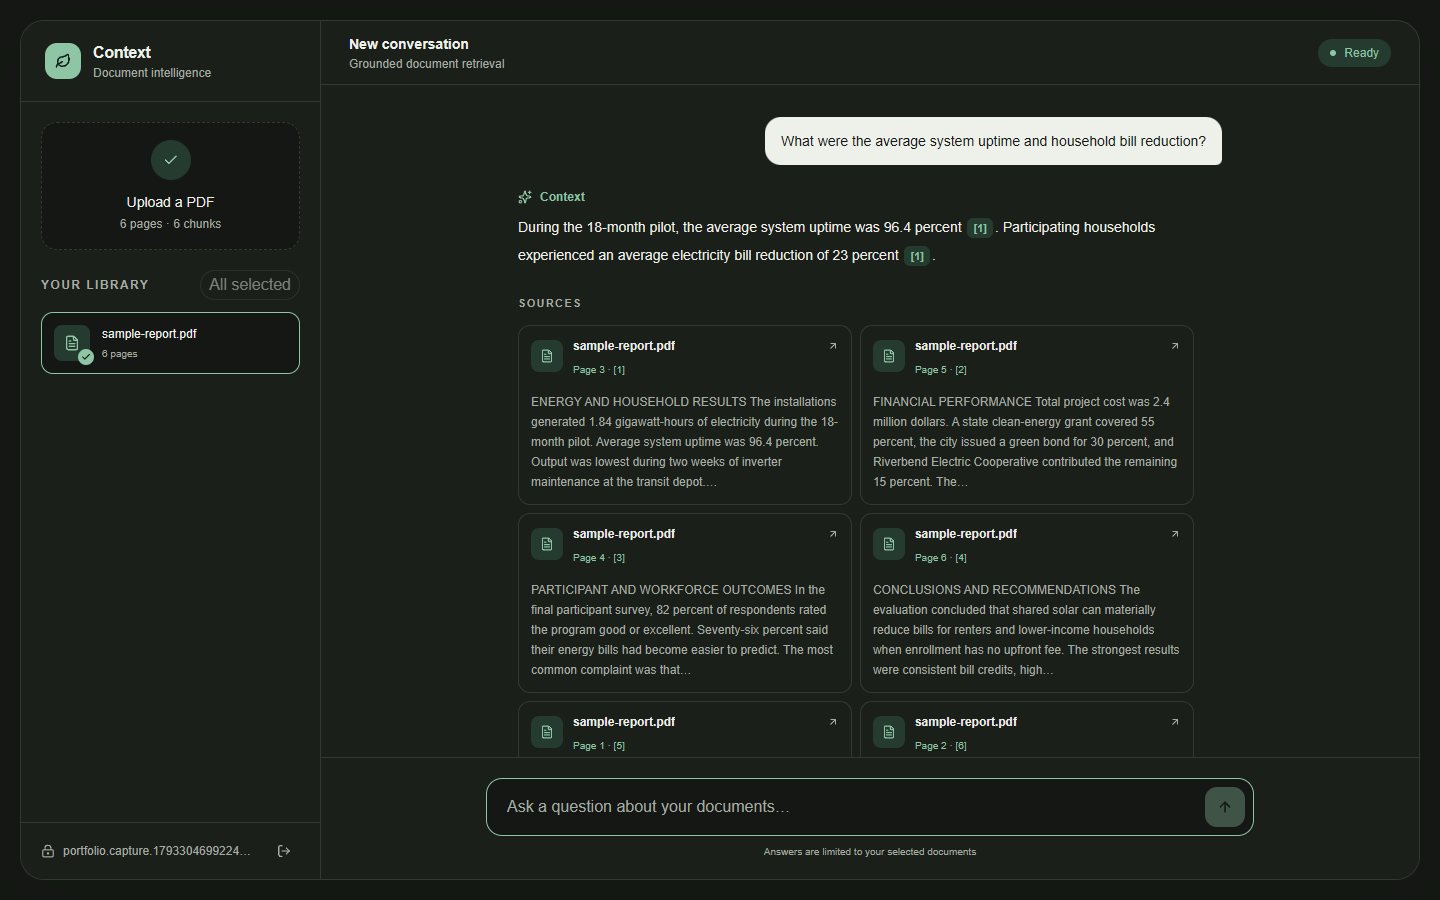
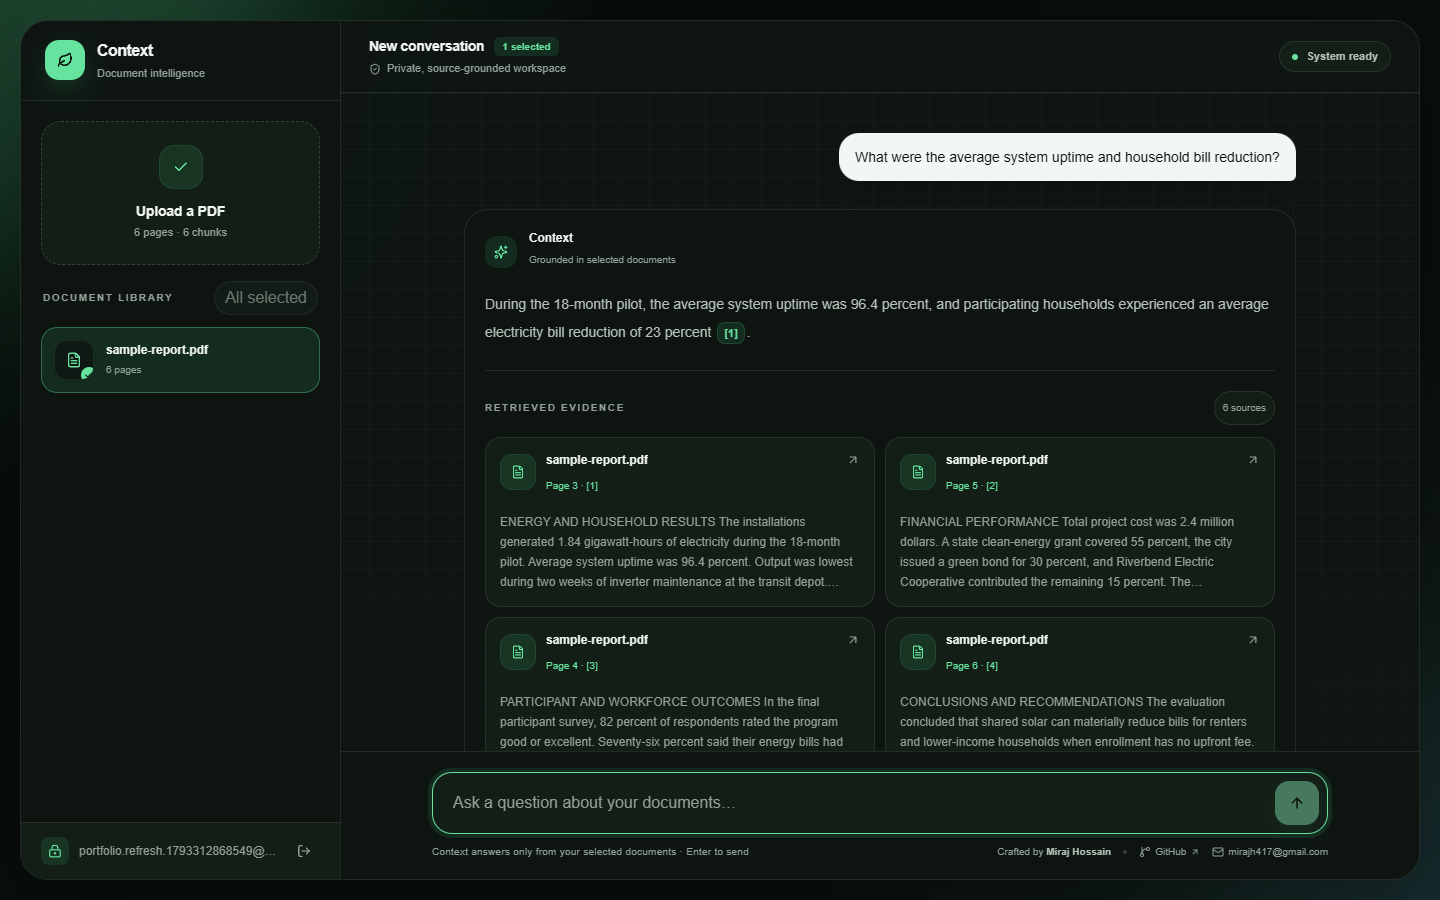
docs: finalize project showcase

diff --git a/README.md b/README.md
@@ -2,8 +2,9 @@
 
 Context is a production-oriented Retrieval-Augmented Generation application for asking questions about private PDF documents. It extracts and embeds page-aware chunks, retrieves relevant evidence with pgvector, streams answers from Gemini, and links every supported claim to its source page.
 
-> **Live demo:** `https://your-project.vercel.app`
-> Replace this placeholder after the first production deployment.
+> **Live application:** [rag-chat-swart.vercel.app](https://rag-chat-swart.vercel.app)
+>
+> Upload a text-based PDF, ask a document-specific question, and inspect the page-level evidence behind the answer.
 
 ## Portfolio preview
 
@@ -15,6 +16,7 @@ Context is a production-oriented Retrieval-Augmented Generation application for 
 
 ## Highlights
 
+- Modern, responsive AI workspace with dark/light themes, accessible motion, and polished interaction states
 - Passwordless Supabase authentication with protected routes and cookie-based SSR sessions
 - Private PDF ingestion without writing uploads to the server filesystem
 - Page-aware chunking at approximately 600 tokens with 80-token overlap
@@ -78,6 +80,7 @@ flowchart LR
 | Layer | Technology |
 | --- | --- |
 | Web application | Next.js 16 App Router, React 19, TypeScript, Tailwind CSS 4 |
+| Interface | Responsive source-owned components, Lucide icons, CSS motion with reduced-motion support |
 | AI orchestration | Vercel AI SDK 7, Google Gemini provider |
 | Data | Supabase Postgres, pgvector, HNSW cosine index |
 | Files and identity | Supabase Storage and passwordless Auth |
@@ -184,16 +187,24 @@ The evaluator creates an isolated temporary Supabase user and document, saves `e
 
 ## Deployment
 
-Deploy through the connected GitHub repository on Vercel. The important production steps are:
+The application is deployed from the connected GitHub `main` branch at [rag-chat-swart.vercel.app](https://rag-chat-swart.vercel.app). For a new deployment or fork:
 
 1. Import `MirajHossain22/RAG-chat` into Vercel.
 2. Add every variable from `.env.example` to the Production environment.
 3. Enable Fluid Compute and select a Function Region close to the Supabase project region.
 4. Keep the route-level limits already defined in code: 120 seconds for chat and 300 seconds for ingestion.
-5. Deploy, then replace the Supabase Site URL with the production Vercel domain.
+5. Deploy, then set the Supabase Site URL and allowed redirect URL to the production Vercel domain.
 6. Verify authentication, upload, grounded answers, citations, refusal behavior, deletion, and rate limits.
 
 Use the detailed [Vercel deployment checklist](docs/DEPLOYMENT.md) before publishing the portfolio link.
+
+## Author
+
+Designed and built by **Miraj Hossain**.
+
+- GitHub: [@MirajHossain22](https://github.com/MirajHossain22)
+- Email: [mirajh417@gmail.com](mailto:mirajh417@gmail.com)
+- Live project: [rag-chat-swart.vercel.app](https://rag-chat-swart.vercel.app)
 
 ## Security and hardening
 
@@ -242,4 +253,4 @@ proxy.ts              Next.js 16 Supabase session refresh and route protection
 
 ## Status
 
-All eight implementation phases and the portfolio media are complete. The remaining portfolio tasks are to deploy to Vercel and replace the live-demo placeholder.
+**Production ready and deployed.** All eight implementation phases, the evaluation suite, responsive UI redesign, portfolio media, Supabase-backed data layer, Upstash rate limiting, and Vercel deployment are complete.

diff --git a/docs/DEPLOYMENT.md b/docs/DEPLOYMENT.md
@@ -83,9 +83,9 @@ Verify currently available Vercel regions in the dashboard before selecting one.
 
 After Vercel assigns the production domain:
 
-- [ ] Set **Authentication → URL Configuration → Site URL** to `https://your-domain.vercel.app`.
+- [ ] Set **Authentication → URL Configuration → Site URL** to `https://rag-chat-swart.vercel.app`.
 - [ ] Add `http://localhost:3000/**` as an allowed development redirect.
-- [ ] Add `https://your-domain.vercel.app/**` as an allowed production redirect.
+- [ ] Add `https://rag-chat-swart.vercel.app/**` as an allowed production redirect.
 - [ ] Send a new magic link and confirm `/auth/confirm` returns to the protected workspace.
 
 ## 7. Production smoke test
@@ -110,7 +110,7 @@ After Vercel assigns the production domain:
 - [x] Add `docs/screenshots/workspace.png`.
 - [x] Add `docs/screenshots/grounded-answer.png`.
 - [x] Add `docs/screenshots/document-chat-demo.gif`.
-- [ ] Replace the README live-demo placeholder.
+- [x] Replace the README live-demo placeholder.
 - [ ] Add the live URL to the GitHub repository description.
 
 ## Rollback
